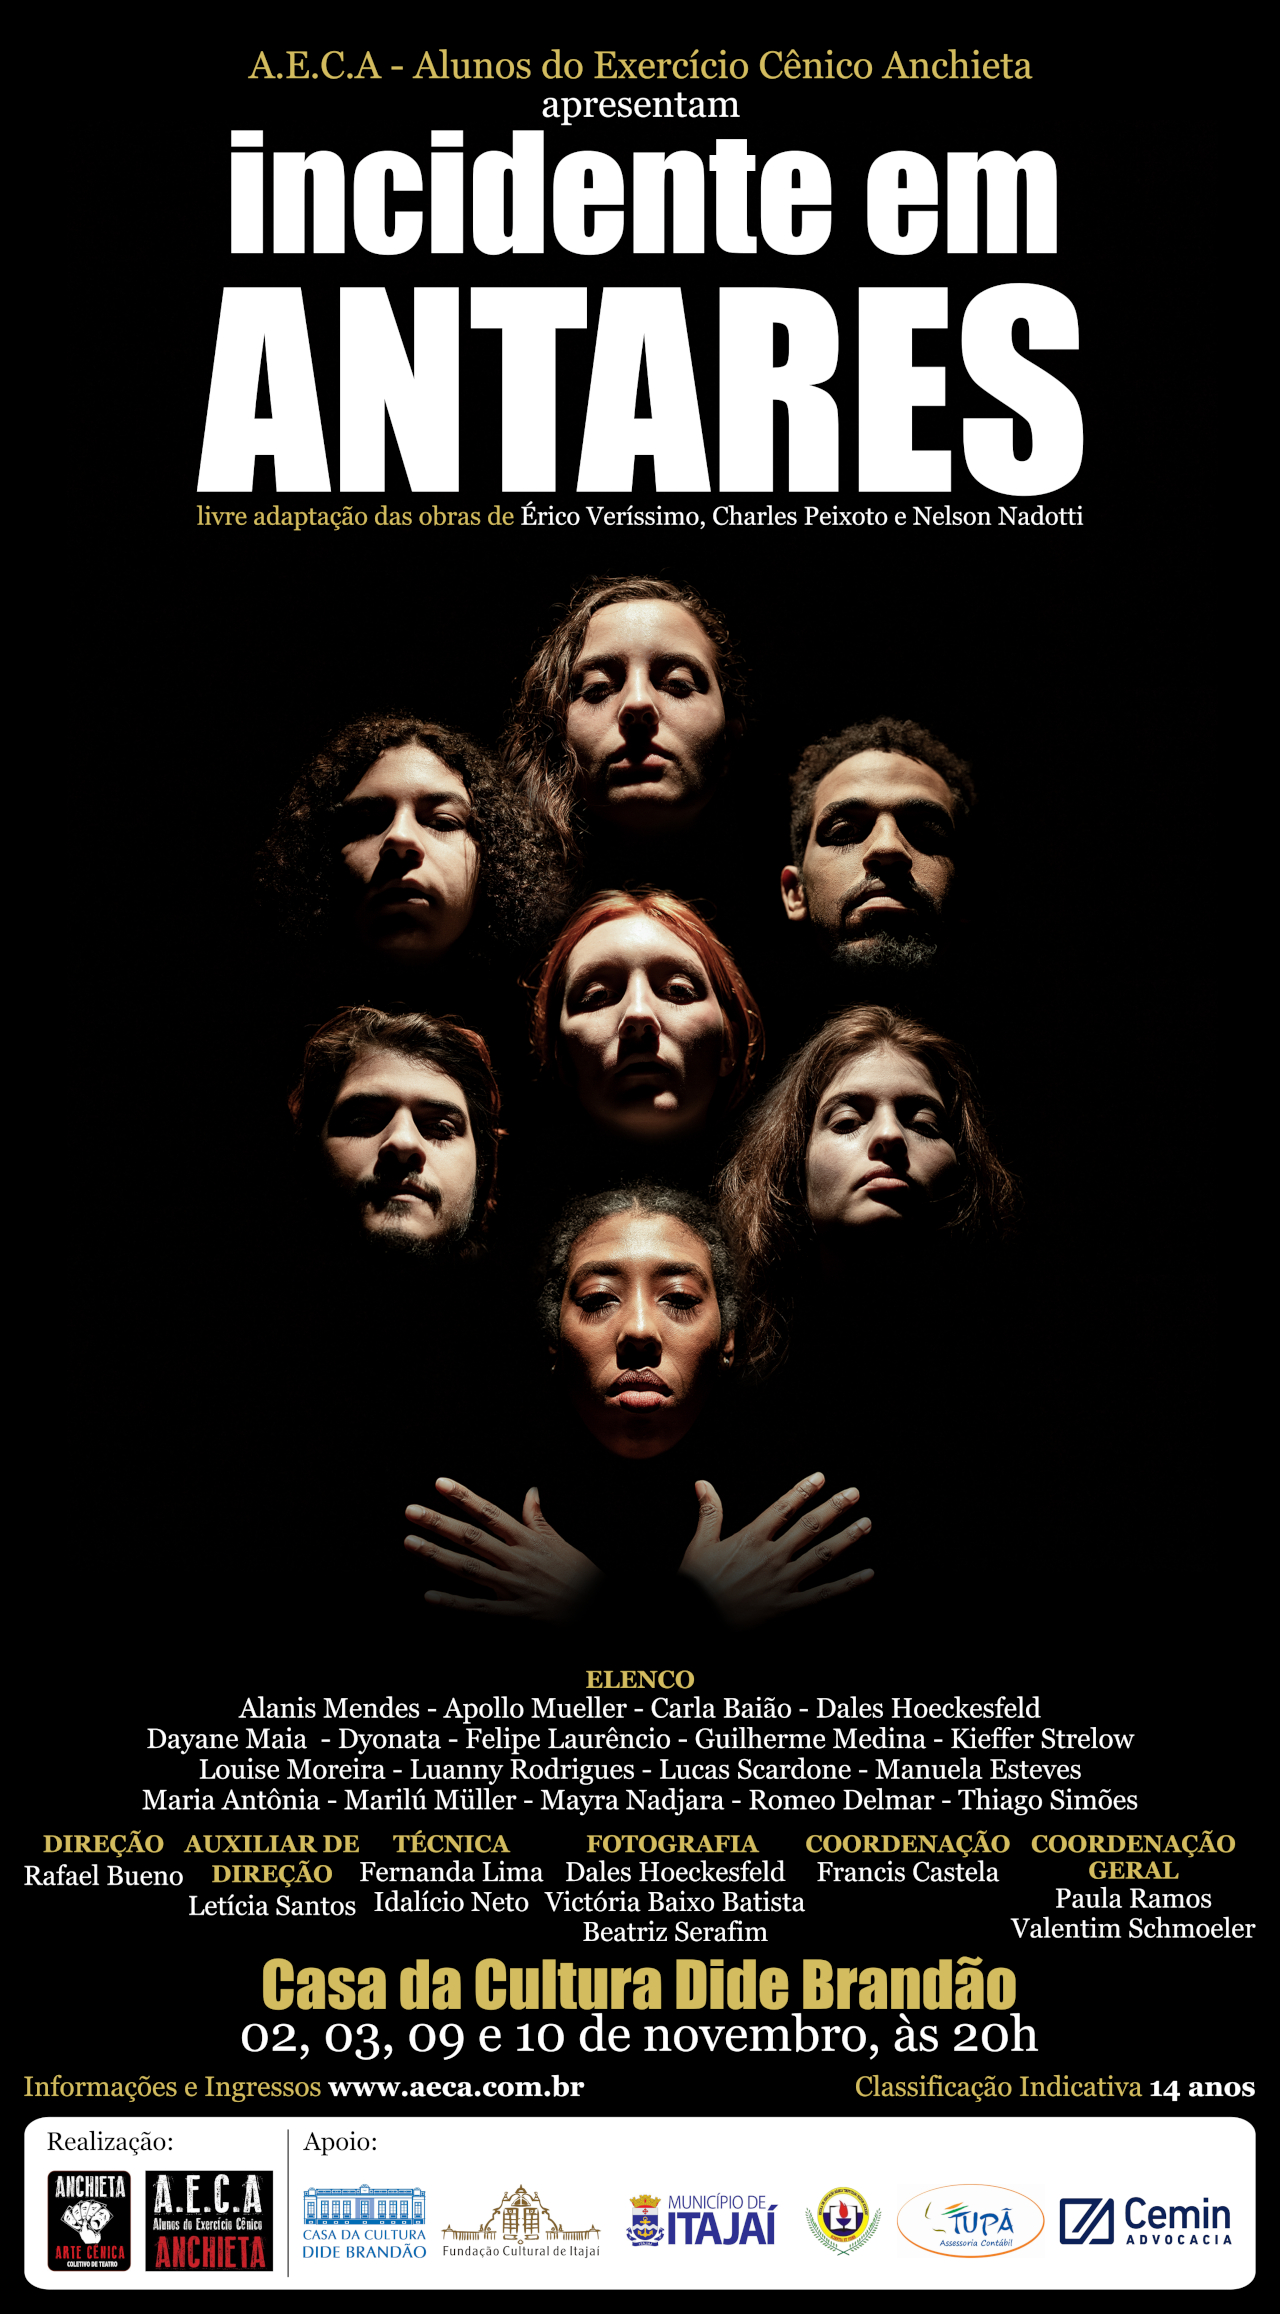
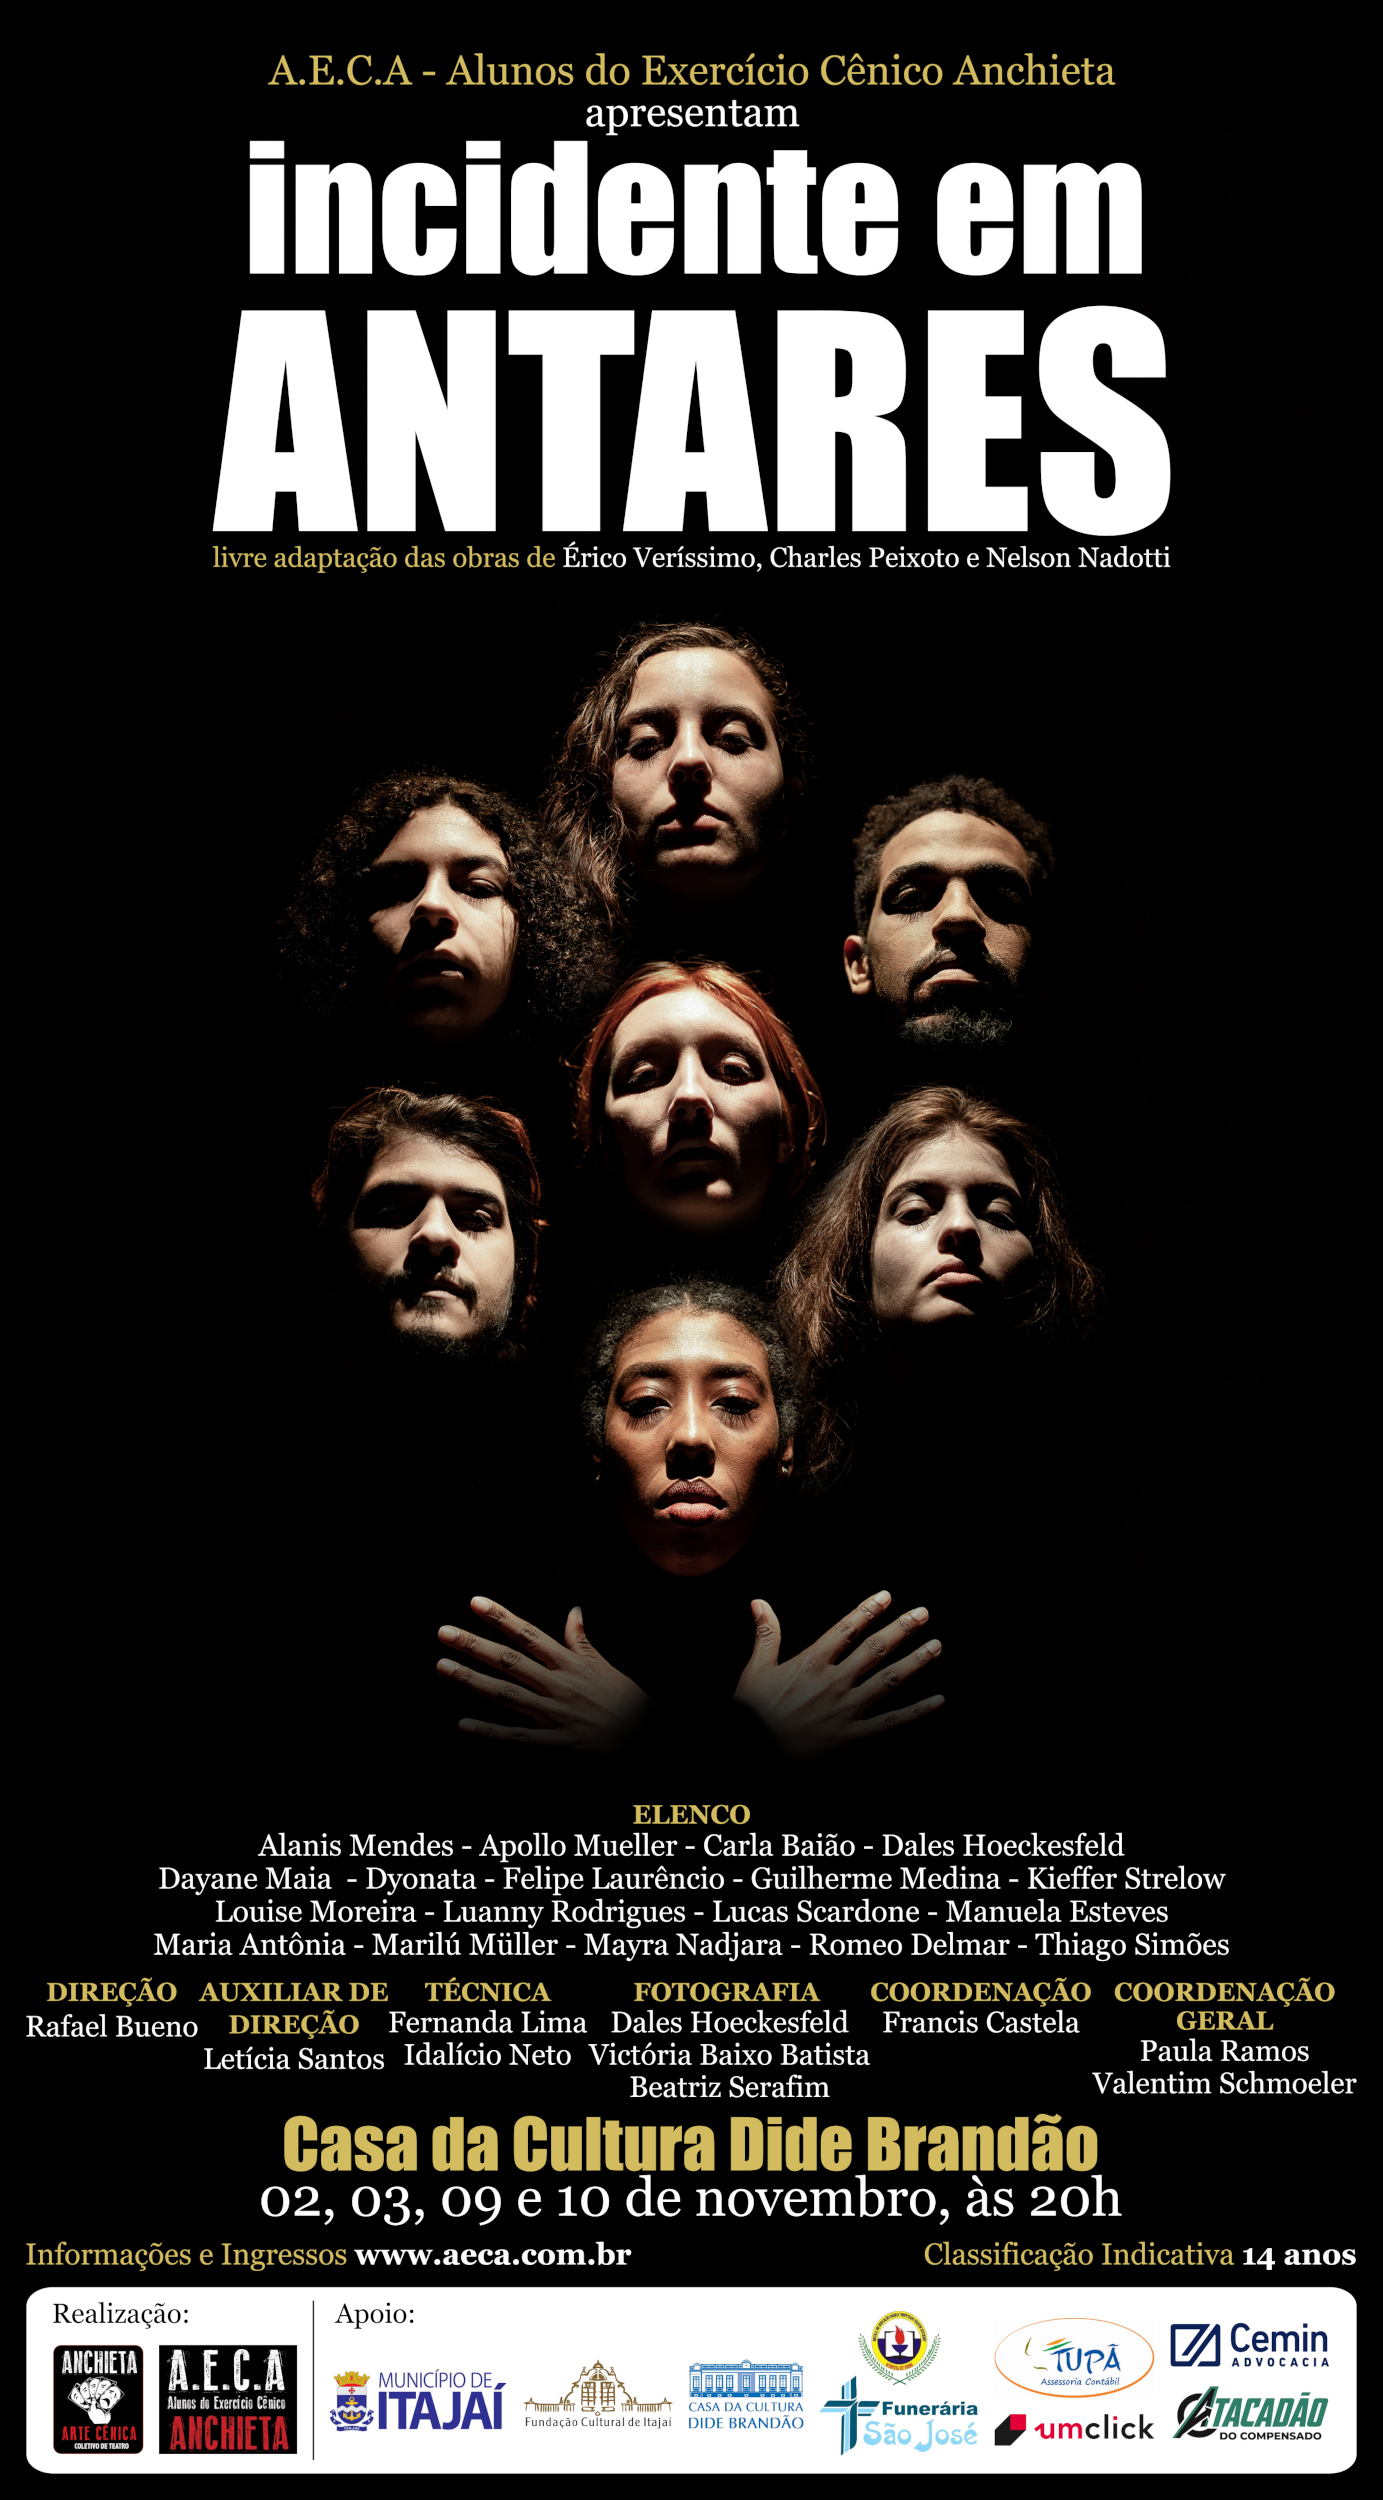
patrocinio

diff --git a/espetaculos/2024/incidente-em-antares.html b/espetaculos/2024/incidente-em-antares.html
@@ -222,6 +222,25 @@
                 </table>
                 <br>
                 <table id="elencosempersonagem">
+					<tr>
+						<th colspan="2" class="cabecalho-tabela">
+							PATROCÍNIO</th>
+					</tr>
+                    <tr>
+                        <td>Atacadão do Compensado</td>
+                    </tr>
+                    <tr>
+                        <td>Cemin Advocacia</td>
+                    </tr>
+                    <tr>
+                        <td>Funerária São José</td>
+                    </tr>
+                    <tr>
+                        <td>Um Click</td>
+                    </tr>
+				</table>
+                <br>
+                <table id="elencosempersonagem">
                     <tr>
                         <th colspan="2" class="cabecalho-tabela">
                             APOIO</th>

diff --git a/HTML/aside-padrao.html b/HTML/aside-padrao.html
@@ -1,5 +1,5 @@
 <div>
-    <a href="/espetaculos/2024/pluft-o-fantasminha">Pluft, O Fantasminha<br>Estreia em 27/10/2024!<img src="/espetaculos/2024/IMG/pluft-meta.jpg"></a>
+    <a href="/espetaculos/2024/pluft-o-fantasminha">Pluft, O Fantasminha<br>Última sessão em 02/11/2024!<img src="/espetaculos/2024/IMG/pluft-meta.jpg"></a>
 </div>
 <div>
     <a href="/espetaculos/2024/incidente-em-antares">Incidente em Antares<br>Estreia em 02/11/2024!<img src="/espetaculos/2024/IMG/antares-meta.jpg"></a>
